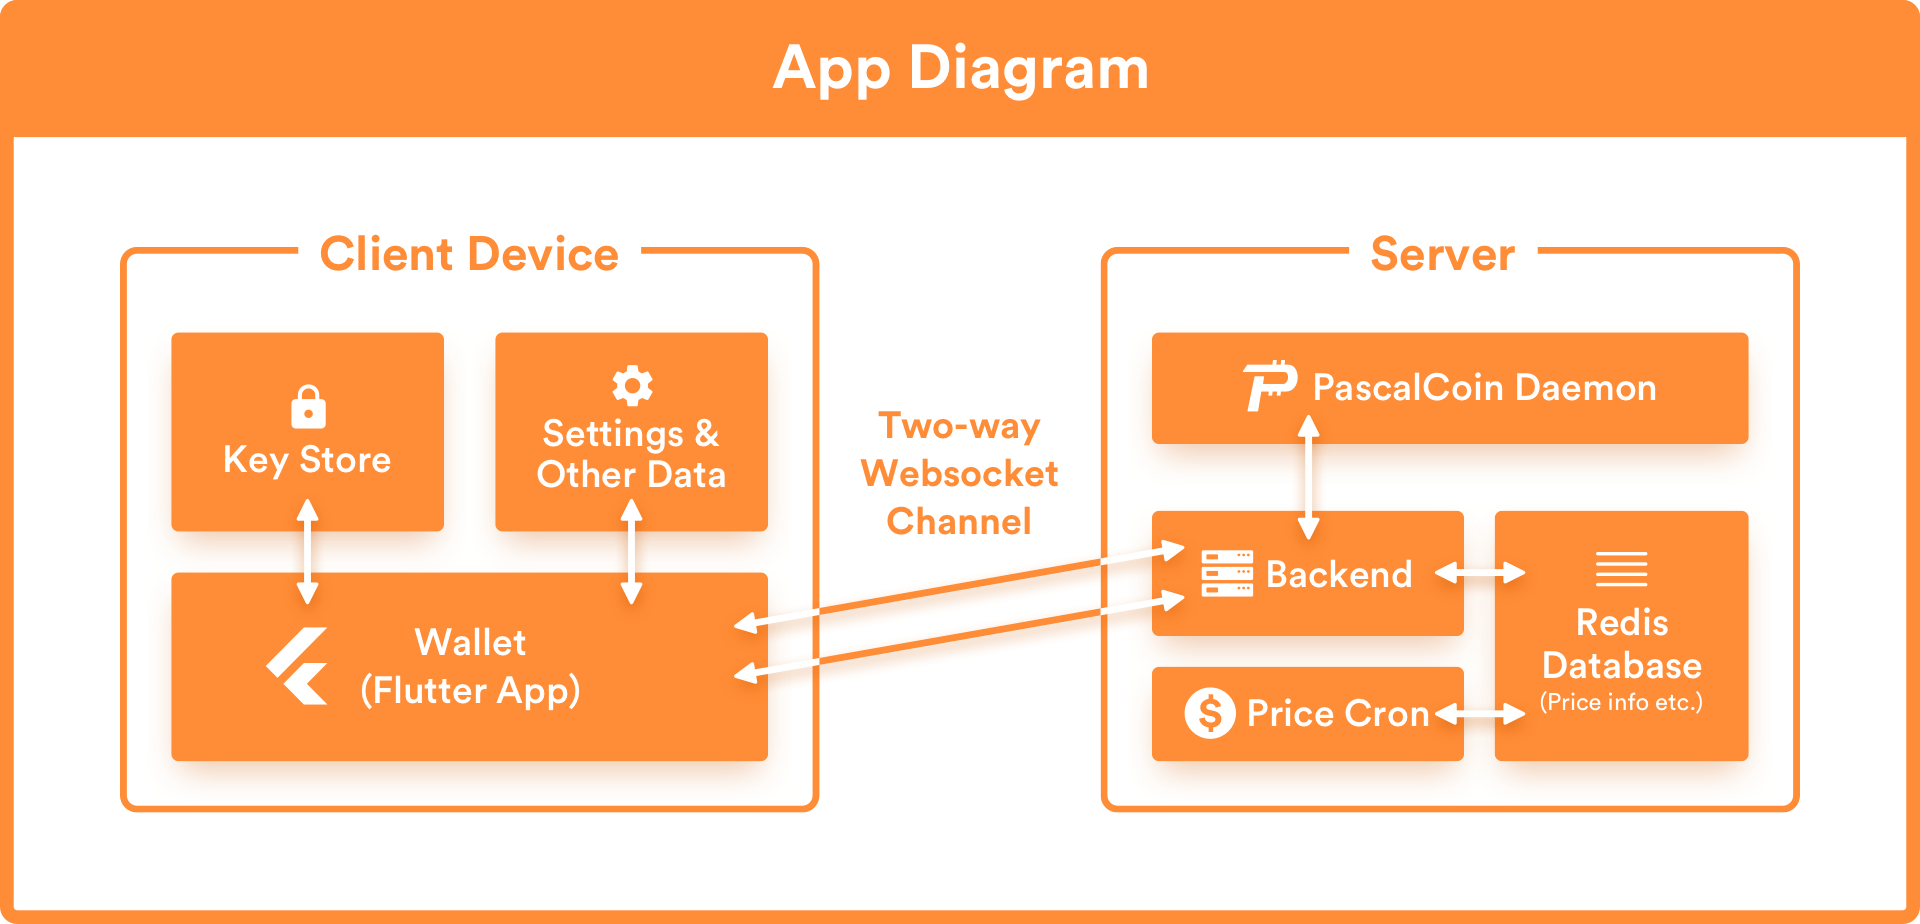
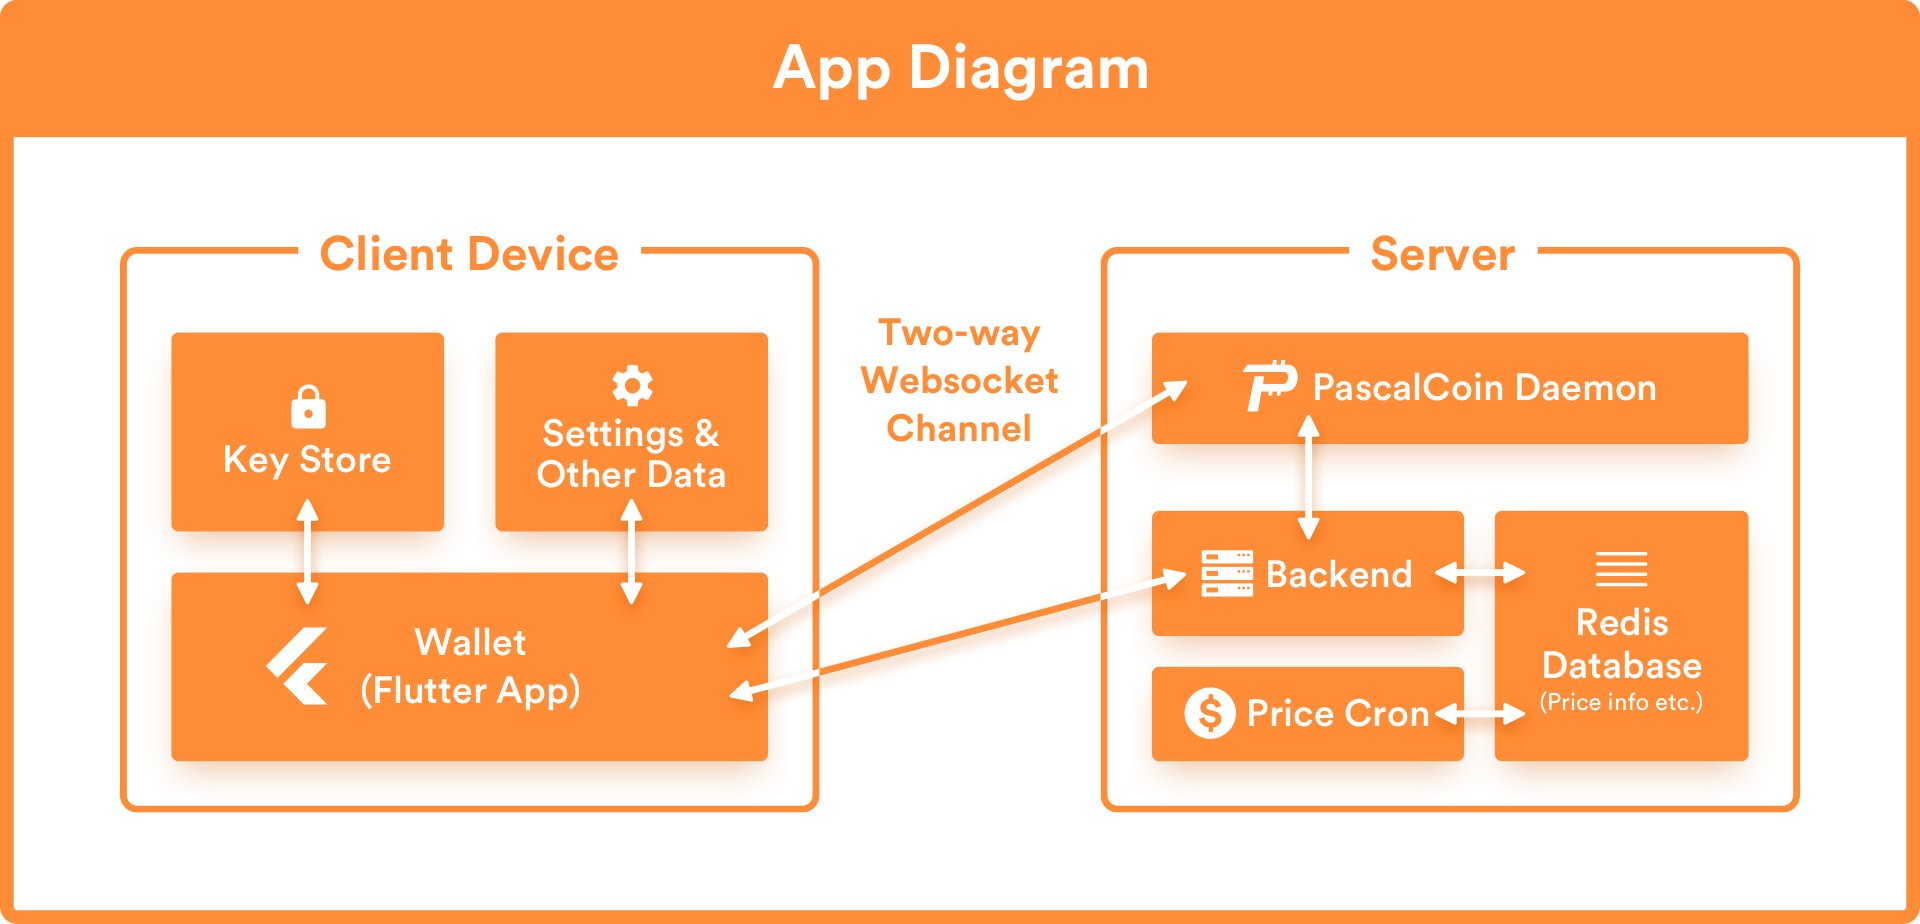
Update PIP-0031C

Changed region(s): [[0.375, 0.3333, 0.625, 0.7576], [0.5938, 0.3939, 0.625, 0.4545]]

diff --git a/PIP/PIP-0031C.md b/PIP/PIP-0031C.md
@@ -47,14 +47,16 @@ This wallet is to be free and open source software.
 
 The wallet is comprised of the following components:
 * **Frontend**: The Flutter application that the user interracts with. Relies on the **Backend**  to interact with the PascalCoin network.
-* **Backend**: This is an asyncio+aiohttp Python secure websocket server. It provides a set of APIs that apps can use to interract with the **Node**. It is also responsible for other things, such as delivering push notifications, price updates, and storing minimal data about subscribed users - such as what fiat currency they prefer for price updates.
-* **Node**: This is a full node, probably the PascalCoin daemon, the preferred configuration is to run the Node on the same server as the Backend application.
+* **Backend**: This is an asyncio+aiohttp Python secure websocket server. The primary purpose is to manage price updates, store minimal data about subscribed users (such as preferred currency), and potentially deliver other things such as push notifications when the user's account has a new operation detected. The secondary purpose is to act as a passthru for the default **Node**. This is a convenience server that provides some user-conveniences that require a central server (streaming price updates, transaction updates, and ideally push notifications). It is not required for core wallet operation.
+* **Node**: This is a full node, probably the PascalCoin daemon. The user can choose any node they want in the application settings and the app will operate normally. There will be a default **Node** operating remotely for wallet users to use, changing it will be an optional and secondary action.
   
 ![Wallet Architecture](resources/PIP-0031C/diagram1.png)
 
 **Key Points**
-* The Processing-Layer can be easily hosted on any machine running Linux, Mac, or Windows as long as it has Python 3.6 or newer installed if the user wishes to use a different server than the one provided.
+* All sensitive data is handled by the **Frontend**, this is the only thing the user interacts with. Users need to be able to install the app (Frontend) and be able to use it immediately without additional steps or interruption.
+* The Backend can be easily hosted on any machine running Linux, Mac, or Windows as long as it has Python 3.6 or newer. The recommended deployment would be to a Unix server, due to the better support there with various WSGI servers such as gunicorn, uwsgi, etc.
 * Push notifications rely on a central service and third-party, such as Firebase, in order to reliably deliver push notifications to a mobile device.
+* The **Node** URL/Port can be changed in the settings so that the app will operate even in the event the central server goes offline.
 
 ### Frontend
 
@@ -83,17 +85,17 @@ This PIP wants to create a frontend that is uniquely, but is similarly intuitive
 This is a Python [aiohttp][aiohttp] server. Python is easy to deploy on all architectures, can be easily scaled when paired with a WSGI server such as [gunicorn][gunicorn]. The goal is to buld a simple lightweight backend that can support a large number of connections. Python's asyncio module allows for high concurrency while a gunicorn deployment would allow for numerous worker processes to be added as needed.
 
 The responsibilities of the backend are to
-* Provide a variety of web socket APIs for clients to interact with - primarily a whitelist of json-RPC commands matching the PascalCoin RPC specifications.
+* Provide a variety of web socket APIs for clients to interact with
 * Push updates to clients such as price updates, new transactions, push notifications.
 
-While users can and should be able to choose and run their own server to prevent the single point of failure problem, this PIP is opting not to interface with the PascalCoin Daemon directly. This is primarily because we want to provide a websocket API instead of an HTTP API, but it also provides other benefits:
+While users can choose and run their own node/daemon to prevent the single point of failure problem, the backend is a central server that is optional - but desirable because it provides numerous conveniences:
 * Potential for optional push notifications for various events
 * Price data provided by server for the currency the user has selected
 * The ability to add special handling for old and obsolete clients
 
 There should be a default, highly-available server for use in this wallet where users can just pick it up and start using it as fast as possible. The basic structure above is easily scalable by simply adding more workers behind a reverse proxy and load balancer.
 
-![Natrium Themes](resources/PIP-0031C/diagram2.png)
+![Balance Diagram](resources/PIP-0031C/diagram2.png)
 
 ## Rationale
 
